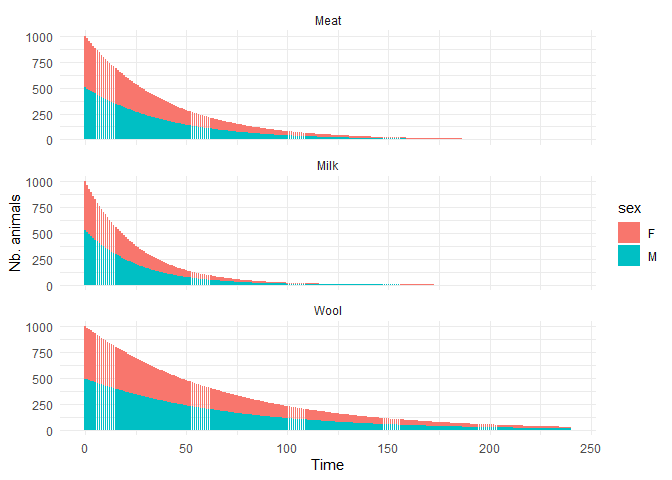
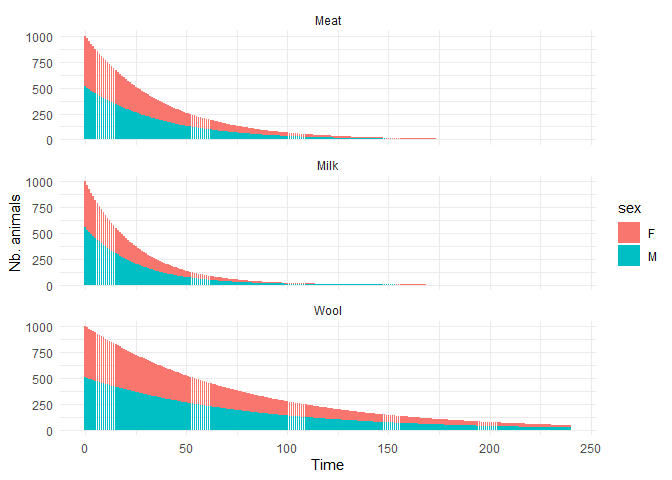
updated readme

diff --git a/README.md b/README.md
@@ -29,20 +29,16 @@ Dissertation.
 This is a basic example which shows you how to project herd growth under
 a single offtake strategy:
 
-``` r
-library(HerdDynamics)
-library(tidyverse)
-#> ── Attaching core tidyverse packages ──────────────────────── tidyverse 2.0.0 ──
-#> ✔ dplyr     1.1.4     ✔ readr     2.1.5
-#> ✔ forcats   1.0.0     ✔ stringr   1.5.1
-#> ✔ ggplot2   3.5.2     ✔ tibble    3.2.1
-#> ✔ lubridate 1.9.4     ✔ tidyr     1.3.1
-#> ✔ purrr     1.0.4     
-#> ── Conflicts ────────────────────────────────────────── tidyverse_conflicts() ──
-#> ✖ dplyr::filter() masks stats::filter()
-#> ✖ dplyr::lag()    masks stats::lag()
-#> ℹ Use the conflicted package (<http://conflicted.r-lib.org/>) to force all conflicts to become errors
-```
+    #> ── Attaching core tidyverse packages ──────────────────────── tidyverse 2.0.0 ──
+    #> ✔ dplyr     1.1.4     ✔ readr     2.1.5
+    #> ✔ forcats   1.0.0     ✔ stringr   1.5.1
+    #> ✔ ggplot2   3.5.2     ✔ tibble    3.2.1
+    #> ✔ lubridate 1.9.4     ✔ tidyr     1.3.1
+    #> ✔ purrr     1.0.4     
+    #> ── Conflicts ────────────────────────────────────────── tidyverse_conflicts() ──
+    #> ✖ dplyr::filter() masks stats::filter()
+    #> ✖ dplyr::lag()    masks stats::lag()
+    #> ℹ Use the conflicted package (<http://conflicted.r-lib.org/>) to force all conflicts to become errors
 
 ## Age Classes
 
@@ -167,13 +163,13 @@ build_param(tcla = tcla,
 #> 1    F     0      1       0       0 0.000000000 0.000000000 0.000000000
 #> 2    F     1      2       1       2 0.000000000 0.000000000 0.000000000
 #> 3    F     2      4       3       6 0.000000000 0.000000000 0.000000000
-#> 4    F     3      6       7      12 0.008037761 0.003048107 0.003048107
-#> 5    F     4     12      13      24 0.096647218 0.037164944 0.037164944
-#> 6    F     5     12      25      36 0.096379122 0.049272974 0.049272974
-#> 7    F     6     12      37      48 0.096186277 0.059237985 0.059237985
-#> 8    F     7     24      49      72 0.096002221 0.068170189 0.068170189
-#> 9    F     8     24      73      96 0.095995832 0.051378664 0.051378664
-#> 10   F     9    Inf      97     Inf 0.095696559 0.047140805 0.047140805
+#> 4    F     3      6       7      12 0.008074147 0.002182051 0.002182051
+#> 5    F     4     12      13      24 0.096647218 0.027344586 0.027344586
+#> 6    F     5     12      25      36 0.096379122 0.055806501 0.055806501
+#> 7    F     6     12      37      48 0.096186277 0.065547319 0.065547319
+#> 8    F     7     24      49      72 0.096002221 0.065470295 0.065470295
+#> 9    F     8     24      73      96 0.095995832 0.060495733 0.060495733
+#> 10   F     9    Inf      97     Inf 0.095696559 0.052585120 0.052585120
 #> 11   M     0      1       0       0 0.000000000 0.000000000 0.000000000
 #> 12   M     1      2       1       2 0.000000000 0.000000000 0.000000000
 #> 13   M     2      4       3       6 0.000000000 0.000000000 0.000000000
@@ -185,20 +181,20 @@ build_param(tcla = tcla,
 #> 19   M     8     24      73      96 0.000000000 0.000000000 0.000000000
 #> 20   M     9    Inf      97     Inf 0.000000000 0.000000000 0.000000000
 #>           pdea       poff           g
-#> 1  0.014378771 0.02168272 1.000000000
-#> 2  0.027224422 0.04358808 0.481647065
-#> 3  0.023946873 0.04690149 0.223154337
-#> 4  0.021661414 0.04927604 0.137574508
+#> 1  0.016838730 0.02165551 1.000000000
+#> 2  0.032448802 0.04346968 0.480271501
+#> 3  0.028453682 0.04679178 0.221472660
+#> 4  0.012700417 0.04950442 0.141094370
 #> 5  0.014491265 0.05256438 0.055287947
 #> 6  0.014450064 0.05796750 0.053300717
 #> 7  0.014420378 0.06185407 0.051896501
 #> 8  0.014392005 0.06556358 0.013602017
 #> 9  0.014391020 0.06569234 0.013573233
 #> 10 0.014344802 0.07172401 0.000000000
-#> 11 0.013930244 0.02168767 1.000000000
-#> 12 0.026638101 0.04360136 0.481800991
-#> 13 0.024083055 0.04689818 0.223103543
-#> 14 0.020662112 0.04930154 0.137965982
+#> 11 0.008136429 0.02175165 1.000000000
+#> 12 0.015426863 0.04385468 0.484726909
+#> 13 0.013444199 0.04715649 0.227067597
+#> 14 0.012204484 0.04951704 0.141289778
 #> 15 0.011757145 0.05263842 0.056288824
 #> 16 0.004035454 0.05827867 0.057078858
 #> 17 0.004027148 0.06218588 0.055603919
@@ -227,10 +223,10 @@ build_param(tcla = tcla,
 #> 
 #> 
 #> $NetProlificacy
-#> [1] 1.080078
+#> [1] 1.130221
 #> 
 #> $Mortality
-#> [1] 0.2901033
+#> [1] 0.2693901
 #> 
 #> $offtake
 #>  [1] 0.00 0.53 0.58 0.61 0.65 0.72 0.77 0.82 0.82 0.90
@@ -256,42 +252,42 @@ param = lapply(offtake.models, function(o) {
 
 #-- inspect Milk model transition matrix parameters
 param$Milk$param
-#>    sex class lclass cellmin cellmax      nupar          ff          fm
-#> 1    F     0      1       0       0 0.00000000 0.000000000 0.000000000
-#> 2    F     1      2       1       2 0.00000000 0.000000000 0.000000000
-#> 3    F     2      4       3       6 0.00000000 0.000000000 0.000000000
-#> 4    F     3      6       7      12 0.00802751 0.003120309 0.003120309
-#> 5    F     4     12      13      24 0.09664722 0.038625627 0.038625627
-#> 6    F     5     12      25      36 0.09637912 0.063062143 0.063062143
-#> 7    F     6     12      37      48 0.09618628 0.069215740 0.069215740
-#> 8    F     7     24      49      72 0.09600222 0.074918305 0.074918305
-#> 9    F     8     24      73      96 0.09599583 0.064239262 0.064239262
-#> 10   F     9    Inf      97     Inf 0.09569656 0.056054121 0.056054121
-#> 11   M     0      1       0       0 0.00000000 0.000000000 0.000000000
-#> 12   M     1      2       1       2 0.00000000 0.000000000 0.000000000
-#> 13   M     2      4       3       6 0.00000000 0.000000000 0.000000000
-#> 14   M     3      6       7      12 0.00000000 0.000000000 0.000000000
-#> 15   M     4     12      13      24 0.00000000 0.000000000 0.000000000
-#> 16   M     5     12      25      36 0.00000000 0.000000000 0.000000000
-#> 17   M     6     12      37      48 0.00000000 0.000000000 0.000000000
-#> 18   M     7     24      49      72 0.00000000 0.000000000 0.000000000
-#> 19   M     8     24      73      96 0.00000000 0.000000000 0.000000000
-#> 20   M     9    Inf      97     Inf 0.00000000 0.000000000 0.000000000
+#>    sex class lclass cellmin cellmax       nupar          ff          fm
+#> 1    F     0      1       0       0 0.000000000 0.000000000 0.000000000
+#> 2    F     1      2       1       2 0.000000000 0.000000000 0.000000000
+#> 3    F     2      4       3       6 0.000000000 0.000000000 0.000000000
+#> 4    F     3      6       7      12 0.008035275 0.004077075 0.004077075
+#> 5    F     4     12      13      24 0.096647218 0.049137732 0.049137732
+#> 6    F     5     12      25      36 0.096379122 0.051557652 0.051557652
+#> 7    F     6     12      37      48 0.096186277 0.058524804 0.058524804
+#> 8    F     7     24      49      72 0.096002221 0.072404654 0.072404654
+#> 9    F     8     24      73      96 0.095995832 0.053102785 0.053102785
+#> 10   F     9    Inf      97     Inf 0.095696559 0.049472775 0.049472775
+#> 11   M     0      1       0       0 0.000000000 0.000000000 0.000000000
+#> 12   M     1      2       1       2 0.000000000 0.000000000 0.000000000
+#> 13   M     2      4       3       6 0.000000000 0.000000000 0.000000000
+#> 14   M     3      6       7      12 0.000000000 0.000000000 0.000000000
+#> 15   M     4     12      13      24 0.000000000 0.000000000 0.000000000
+#> 16   M     5     12      25      36 0.000000000 0.000000000 0.000000000
+#> 17   M     6     12      37      48 0.000000000 0.000000000 0.000000000
+#> 18   M     7     24      49      72 0.000000000 0.000000000 0.000000000
+#> 19   M     8     24      73      96 0.000000000 0.000000000 0.000000000
+#> 20   M     9    Inf      97     Inf 0.000000000 0.000000000 0.000000000
 #>           pdea       poff           g
-#> 1  0.015976660 0.02166505 1.000000000
-#> 2  0.029990852 0.04352541 0.480919573
-#> 3  0.025799405 0.04685642 0.222463252
-#> 4  0.024186090 0.04921156 0.136586681
+#> 1  0.026453103 0.02154897 1.000000000
+#> 2  0.044690688 0.04319138 0.477019705
+#> 3  0.023511157 0.04691209 0.223316845
+#> 4  0.022273576 0.04926041 0.137334829
 #> 5  0.014491265 0.05256438 0.055287947
 #> 6  0.014450064 0.05796750 0.053300717
 #> 7  0.014420378 0.06185407 0.051896501
 #> 8  0.014392005 0.06556358 0.013602017
 #> 9  0.014391020 0.06569234 0.013573233
 #> 10 0.014344802 0.07172401 0.000000000
-#> 11 0.015353960 0.02167194 1.000000000
-#> 12 0.028757319 0.04355337 0.481244207
-#> 13 0.024440703 0.04688948 0.222970138
-#> 14 0.022344080 0.04925861 0.137307231
+#> 11 0.014229042 0.02168437 1.000000000
+#> 12 0.027444193 0.04358311 0.481589345
+#> 13 0.023970298 0.04690092 0.223145600
+#> 14 0.010272452 0.04956618 0.142051626
 #> 15 0.011757145 0.05263842 0.056288824
 #> 16 0.004035454 0.05827867 0.057078858
 #> 17 0.004027148 0.06218588 0.055603919
@@ -313,15 +309,15 @@ milk.lambda = get_lambda(param$Milk$param, tcla = tcla, p0=1000)
 
 #-- herd growth rate
 milk.lambda$lambda
-#> [1] 0.962
+#> [1] 0.961
 
 #-- sex proportion of herd
 milk.lambda$sex.proportion
 #> # A tibble: 2 × 2
 #>   sex   p.sex
 #>   <chr> <dbl>
-#> 1 F     0.472
-#> 2 M     0.528
+#> 1 F     0.449
+#> 2 M     0.551
 
 #-- initial age structure of herd
 milk.lambda$initial.herd %>% 
@@ -355,71 +351,28 @@ projection *results* as a list.
 ``` r
 #-- put all parameters into a list
 all.param = param_list(param, repro)
-str(all.param, 3)
-#> List of 3
-#>  $ Milk:List of 5
-#>   ..$ param         :List of 8
-#>   .. ..$ param         :'data.frame':    20 obs. of  11 variables:
-#>   .. ..$ parms         :List of 6
-#>   .. ..$ NetProlificacy: num 1.27
-#>   .. ..$ Mortality     : num 0.299
-#>   .. ..$ offtake       : num [1:10] 0 0.53 0.58 0.61 0.65 0.72 0.77 0.82 0.82 0.9
-#>   .. ..$ female.offtake: NULL
-#>   .. ..$ correctionfec : logi TRUE
-#>   .. ..$ phi           : NULL
-#>   ..$ lambda        : num 0.962
-#>   ..$ sex.proportion: tibble [2 × 2] (S3: tbl_df/tbl/data.frame)
-#>   ..$ initial.herd  :'data.frame':   18 obs. of  7 variables:
-#>   .. ..$ sex    : chr [1:18] "F" "F" "F" "F" ...
-#>   .. ..$ class  : int [1:18] 1 2 3 4 5 6 7 8 9 1 ...
-#>   .. ..$ lclass : num [1:18] 2 4 6 12 12 ...
-#>   .. ..$ cellmin: num [1:18] 1 3 7 13 25 37 49 73 97 1 ...
-#>   .. ..$ cellmax: num [1:18] 2 6 12 24 36 ...
-#>   .. ..$ xini   : num [1:18] 33.4 61.9 79.1 124.8 77.2 ...
-#>   .. ..$ rep.val: num [1:18] 1.45 1.57 1.83 2.3 2.53 ...
-#>   ..$ p0            : num 1000
-#>  $ Meat:List of 5
-#>   ..$ param         :List of 8
-#>   .. ..$ param         :'data.frame':    20 obs. of  11 variables:
-#>   .. ..$ parms         :List of 6
-#>   .. ..$ NetProlificacy: num 1.12
-#>   .. ..$ Mortality     : num 0.287
-#>   .. ..$ offtake       : num [1:10] 0 0.15 0.25 0.3 0.5 0.7 0.78 0.81 0.81 0.9
-#>   .. ..$ female.offtake: NULL
-#>   .. ..$ correctionfec : logi TRUE
-#>   .. ..$ phi           : NULL
-#>   ..$ lambda        : num 0.975
-#>   ..$ sex.proportion: tibble [2 × 2] (S3: tbl_df/tbl/data.frame)
-#>   ..$ initial.herd  :'data.frame':   18 obs. of  7 variables:
-#>   .. ..$ sex    : chr [1:18] "F" "F" "F" "F" ...
-#>   .. ..$ class  : int [1:18] 1 2 3 4 5 6 7 8 9 1 ...
-#>   .. ..$ lclass : num [1:18] 2 4 6 12 12 ...
-#>   .. ..$ cellmin: num [1:18] 1 3 7 13 25 37 49 73 97 1 ...
-#>   .. ..$ cellmax: num [1:18] 2 6 12 24 36 ...
-#>   .. ..$ xini   : num [1:18] 32.2 62.4 88.4 147.3 86.2 ...
-#>   .. ..$ rep.val: num [1:18] 1.77 1.84 1.98 2.12 2.01 ...
-#>   ..$ p0            : num 1000
-#>  $ Wool:List of 5
-#>   ..$ param         :List of 8
-#>   .. ..$ param         :'data.frame':    20 obs. of  11 variables:
-#>   .. ..$ parms         :List of 6
-#>   .. ..$ NetProlificacy: num 1.04
-#>   .. ..$ Mortality     : num 0.275
-#>   .. ..$ offtake       : num [1:10] 0 0.15 0.25 0.35 0.37 0.43 0.5 0.57 0.57 0.8
-#>   .. ..$ female.offtake: NULL
-#>   .. ..$ correctionfec : logi TRUE
-#>   .. ..$ phi           : NULL
-#>   ..$ lambda        : num 0.985
-#>   ..$ sex.proportion: tibble [2 × 2] (S3: tbl_df/tbl/data.frame)
-#>   ..$ initial.herd  :'data.frame':   18 obs. of  7 variables:
-#>   .. ..$ sex    : chr [1:18] "F" "F" "F" "F" ...
-#>   .. ..$ class  : int [1:18] 1 2 3 4 5 6 7 8 9 1 ...
-#>   .. ..$ lclass : num [1:18] 2 4 6 12 12 ...
-#>   .. ..$ cellmin: num [1:18] 1 3 7 13 25 37 49 73 97 1 ...
-#>   .. ..$ cellmax: num [1:18] 2 6 12 24 36 ...
-#>   .. ..$ xini   : num [1:18] 31.6 59.6 82.4 132.3 85.8 ...
-#>   .. ..$ rep.val: num [1:18] 1.62 1.73 1.84 2.07 2.17 ...
-#>   ..$ p0            : num 1000
+str(all.param$Milk, 2)
+#> List of 5
+#>  $ param         :List of 8
+#>   ..$ param         :'data.frame':   20 obs. of  11 variables:
+#>   ..$ parms         :List of 6
+#>   ..$ NetProlificacy: num 1.16
+#>   ..$ Mortality     : num 0.3
+#>   ..$ offtake       : num [1:10] 0 0.53 0.58 0.61 0.65 0.72 0.77 0.82 0.82 0.9
+#>   ..$ female.offtake: NULL
+#>   ..$ correctionfec : logi TRUE
+#>   ..$ phi           : NULL
+#>  $ lambda        : num 0.961
+#>  $ sex.proportion: tibble [2 × 2] (S3: tbl_df/tbl/data.frame)
+#>  $ initial.herd  :'data.frame':  18 obs. of  7 variables:
+#>   ..$ sex    : chr [1:18] "F" "F" "F" "F" ...
+#>   ..$ class  : int [1:18] 1 2 3 4 5 6 7 8 9 1 ...
+#>   ..$ lclass : num [1:18] 2 4 6 12 12 ...
+#>   ..$ cellmin: num [1:18] 1 3 7 13 25 37 49 73 97 1 ...
+#>   ..$ cellmax: num [1:18] 2 6 12 24 36 ...
+#>   ..$ xini   : num [1:18] 31.3 57 74 118.8 74.1 ...
+#>   ..$ rep.val: num [1:18] 1.59 1.77 2.03 2.5 2.41 ...
+#>  $ p0            : num 1000
 
 #-- set the number of cycles and phases
 nbcycle = 20 # 20 years
@@ -430,12 +383,6 @@ results = lapply(all.param, function(a){ project_herd(a, 20, 12)})
 ```
 
 <img src="man/figures/README-plot-1.png" width="100%" /><img src="man/figures/README-plot-2.png" width="100%" />
-
-You’ll still need to render `README.Rmd` regularly, to keep `README.md`
-up-to-date. `devtools::build_readme()` is handy for this. You could also
-use GitHub Actions to re-render `README.Rmd` every time you push. An
-example workflow can be found here:
-<https://github.com/r-lib/actions/tree/v1/examples>.
 
 # References
 
